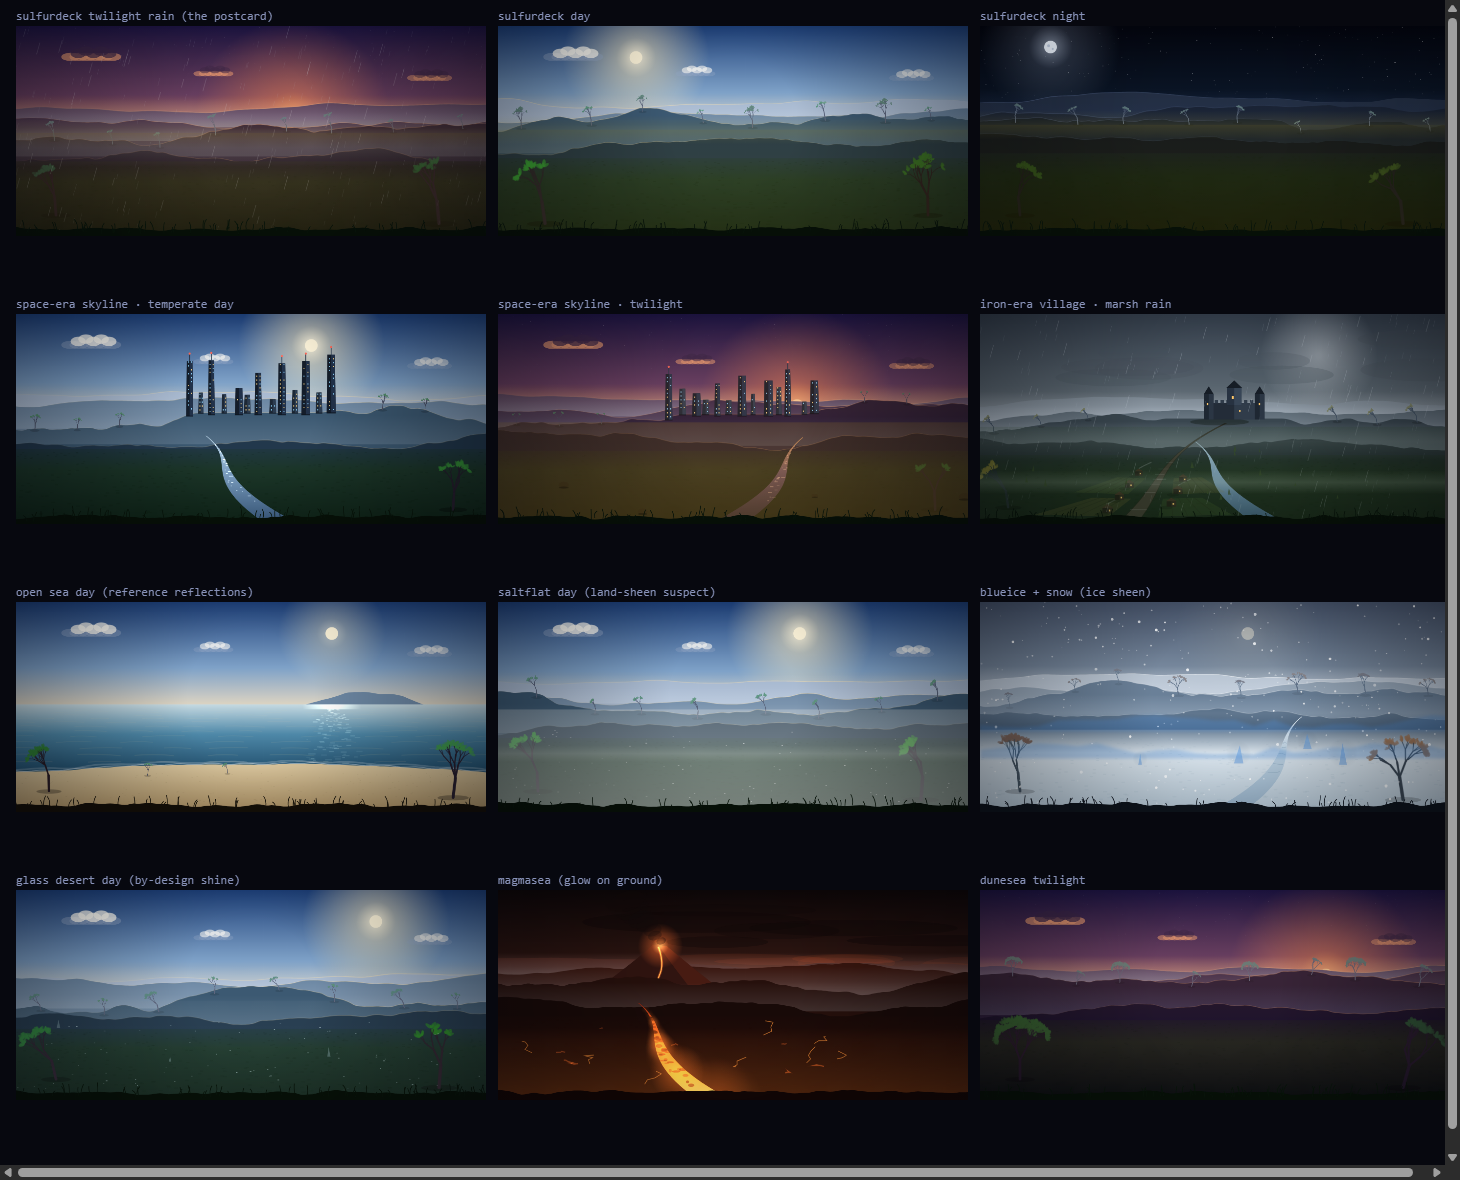
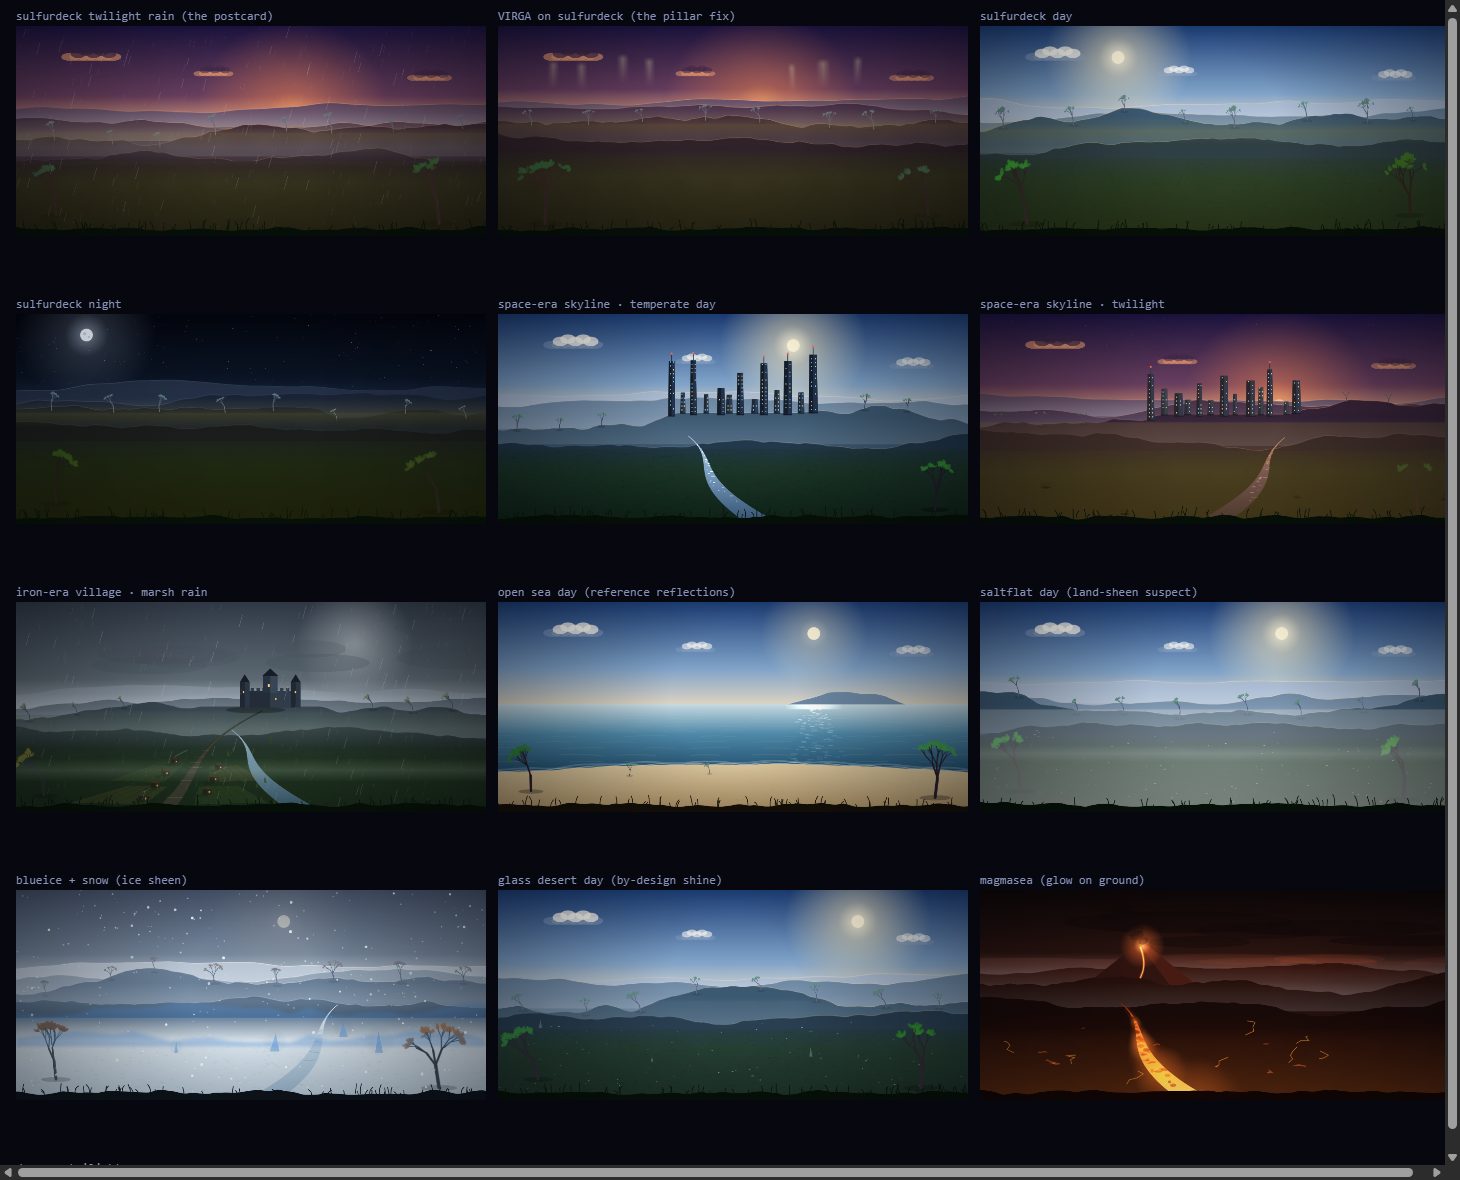
v1.5.2c: the emoji pass (Dakk's word) + the Venus pillar mystery solved - Safari-safe virga
- EMOJI FIXES: Forbidden Science wears the biohazard (a heraldic lily
  said nothing about breeding legends, and collided with Throne
  Breaker); Deep Find -> blue diamond (the 💠 stud belongs to Dakk's
  Earpiece socket alone); Survey Fleet -> satellite (an Earth
  helicopter had no place in deep space); Twin Suns -> two suns (a
  moon phase said the wrong thing about a binary).
- THE VENUS PILLARS (Dakk's postcard, repro'd by caption): 'acid rain
  dying in the air' = the VIRGA weather event. Its painter softened
  the rain shafts with ctx.filter='blur(3px)' - Safari/iOS does not
  support canvas filter, the try/catch hid it, and the shafts drew as
  hard flat-topped 12px slabs reading as a city skyline. Every proof
  sheet (Chrome/Edge) rendered the blur, which is why no sheet ever
  showed it. Fix: hand-feathered shafts (offscreen two-axis alpha
  gradient, slight lean) - identical soft veils on every browser; no
  filter dependency. Verified on the re-rendered art sheet.
- Battery: fingerprint 50/50, smoke 295 PASS / 0 FAIL.

Claude-Session: https://claude.ai/code/session_01D73Xb3esBQzqXfB3Pz9Shz

diff --git a/celestial-frontier.html b/celestial-frontier.html
@@ -6757,12 +6757,28 @@ function _hdWxEvent(g, evt, seed, hz, W, H, night){
     fog.addColorStop(0,'rgba(230,242,252,'+(0.4*A)+')'); fog.addColorStop(1,'rgba(230,242,252,0)');
     g.fillStyle=fog; g.beginPath(); g.arc(x,hz-h,80,0,TAU); g.fill();
   } else if(evt==='virga'){
-    try{ g.filter='blur(3px)'; }catch(_){ }
-    for(let i=0;i<7;i++){
-      const x=W*(0.08+r()*0.84), top=hz*0.28+r()*20, fall=hz*0.30;
-      const vg2=g.createLinearGradient(x,top,x,top+fall);
-      vg2.addColorStop(0,'rgba(210,200,160,'+(0.4*A)+')'); vg2.addColorStop(1,'rgba(210,200,160,0)');
-      g.fillStyle=vg2; g.fillRect(x-6,top,12,fall);
+    /* Safari/iOS has no ctx.filter — the old blur(3px) silently no-oped
+       there and the shafts rendered as hard flat-topped slabs that read
+       as a city skyline (Dakk's Venus postcard). Feather by hand: an
+       offscreen shaft faded on BOTH axes, stamped with a slight lean —
+       rain dying in the air on every browser. */
+    const vc=document.createElement('canvas'); vc.width=32; vc.height=96;
+    const vgc=vc.getContext('2d');
+    if(vgc){
+      const vv=vgc.createLinearGradient(0,0,0,96);
+      vv.addColorStop(0,'rgba(210,200,160,0)'); vv.addColorStop(0.18,'rgba(210,200,160,'+(0.38*A)+')');
+      vv.addColorStop(1,'rgba(210,200,160,0)');
+      vgc.fillStyle=vv; vgc.fillRect(0,0,32,96);
+      const vh=vgc.createLinearGradient(0,0,32,0);
+      vh.addColorStop(0,'rgba(0,0,0,0)'); vh.addColorStop(0.5,'rgba(0,0,0,1)'); vh.addColorStop(1,'rgba(0,0,0,0)');
+      vgc.globalCompositeOperation='destination-in';
+      vgc.fillStyle=vh; vgc.fillRect(0,0,32,96);
+      for(let i=0;i<7;i++){
+        const x=W*(0.08+r()*0.84), top=hz*0.28+r()*20, fall=hz*0.30, w=16+r()*14;
+        g.save(); g.translate(x,top); g.rotate((r()-0.5)*0.10);
+        g.drawImage(vc,-w/2,0,w,fall);
+        g.restore();
+      }
     }
   } else if(evt==='volclightning'){
     const x=W*(0.3+r()*0.4), top=hz*0.12;
@@ -10417,7 +10433,7 @@ const ACH=[
   {id:'gen5',    cat:'Breeding', ic:'🧫', name:'Dynasty',      d:'Reach a generation-5 hybrid line', t:()=>stats.maxGen>=5},
   {id:'gen10',   cat:'Breeding', ic:'👑', name:'Bloodline Eternal', d:'Reach a generation-10 hybrid line', t:()=>stats.maxGen>=10},
   /* — Rarity — */
-  {id:'rare',    cat:'Rarity', ic:'💠', name:'Deep Find',     d:'Discover something Rare or better', t:()=>stats.best>=3},
+  {id:'rare',    cat:'Rarity', ic:'🔷', name:'Deep Find',     d:'Discover something Rare or better', t:()=>stats.best>=3},   /* 💠 belongs to the Earpiece stud (Dakk's pick) — no double meaning */
   {id:'legend',  cat:'Rarity', ic:'🌟', name:'Gold Rush',     d:'Discover a Legendary', t:()=>stats.best>=5},
   {id:'unique',  cat:'Rarity', ic:'✦',  name:'One of One',    d:'Discover a one-of-one Unique', t:()=>stats.best>=7},
   {id:'mythic',  cat:'Rarity', ic:'🧿', name:'Beyond the Veil', d:'Discover a Mythic — rarer than one-of-one', t:()=>stats.best>=8},
@@ -10429,7 +10445,7 @@ const ACH=[
   {id:'survey5',  cat:'Worlds', ic:'🛰', name:'Eyes Down',       d:'Survey 5 living worlds', t:()=>stats.surveys>=5},
   {id:'survey25', cat:'Worlds', ic:'🌍', name:'World Walker',    d:'Survey 25 living worlds', t:()=>stats.surveys>=25},
   {id:'survey100',cat:'Worlds', ic:'🛸', name:'Centurion',       d:'Survey 100 living worlds', t:()=>stats.surveys>=100},
-  {id:'survey250',cat:'Worlds', ic:'🚁', name:'Survey Fleet',    d:'Survey 250 living worlds', t:()=>stats.surveys>=250},
+  {id:'survey250',cat:'Worlds', ic:'🛰', name:'Survey Fleet',    d:'Survey 250 living worlds', t:()=>stats.surveys>=250},   /* an Earth helicopter had no place in deep space */
   {id:'worldset', cat:'Worlds', ic:'🪐', name:'Planetary Census',d:'Survey all 8 world types', t:()=>ptypesSeen.size>=8},
   {id:'surface5', cat:'Worlds', ic:'👣', name:'Groundfall',      d:'Stand on the surface of 5 worlds', t:()=>surfSeen.size>=5},
   {id:'surface25',cat:'Worlds', ic:'🥾', name:'Trailblazer',     d:'Stand on the surface of 25 worlds', t:()=>surfSeen.size>=25},
@@ -10438,7 +10454,7 @@ const ACH=[
   {id:'spacefar', cat:'Worlds', ic:'🚀', name:'Peer Review',     d:'Scan a spacefaring civilization', t:null},
   /* — Stellar — */
   {id:'sol',     cat:'Stellar', ic:'☀', name:'Old Neighborhood', d:'Survey the Sun', t:null},
-  {id:'binary',  cat:'Stellar', ic:'🌗', name:'Twin Suns',        d:'Survey a binary star system', t:null},
+  {id:'binary',  cat:'Stellar', ic:'☀☀', name:'Twin Suns',        d:'Survey a binary star system', t:null},   /* two suns, not a moon phase */
   {id:'seebh',   cat:'Stellar', ic:'🕳', name:'Event Horizon',    d:'Survey a stellar black hole', t:null},
   {id:'seens',   cat:'Stellar', ic:'🗼', name:'Lighthouse',       d:'Survey a neutron star', t:null},
   {id:'seemag',  cat:'Stellar', ic:'🧲', name:'Starquake',        d:'Survey a magnetar', t:null},
@@ -10491,7 +10507,7 @@ const ACH=[
   {id:'bred1',  cat:'Husbandry', ic:'💞', name:'Matchmaker',       d:'Successfully breed a pair', t:()=>(stats.breedwins||0)>=1},
   {id:'bred10', cat:'Husbandry', ic:'🐣', name:'Brood Master',     d:'10 successful breedings', t:()=>(stats.breedwins||0)>=10},
   {id:'bredfail',cat:'Husbandry',ic:'🎲', name:'High Roller',      d:'Lose a pair to a failed breeding', t:()=>(stats.breeds||0)>(stats.breedwins||0)},
-  {id:'bredlegend',cat:'Husbandry',ic:'⚜', name:'Forbidden Science', d:'Breed two Legendary-or-better creatures', t:null},
+  {id:'bredlegend',cat:'Husbandry',ic:'☣', name:'Forbidden Science', d:'Breed two Legendary-or-better creatures', t:null},
   {id:'feed5',  cat:'Husbandry', ic:'🍽', name:'Zookeeper',        d:'Feed flora to fauna 5 times', t:()=>(stats.feeds||0)>=5},
   {id:'feedfail',cat:'Husbandry',ic:'☠', name:'Bitter Harvest',    d:'Lose a beast to a poisonous meal', t:()=>(stats.feedfails||0)>=1},
   /* — Duels — */

diff --git a/tools/sheets/artreview.js b/tools/sheets/artreview.js
@@ -16,6 +16,7 @@ module.exports = {
     g.font='12px monospace';
     const cases=[
       ['sulfurdeck twilight rain (the postcard)', {seed:9101, era:'none', pal:'twilight', wb:'sulfurdeck', wx:'rain', moons:0, water:'none'}],
+      ['VIRGA on sulfurdeck (the pillar fix)',       {seed:9113, era:'none', pal:'twilight', wb:'sulfurdeck', evt:'virga', moons:0, water:'none'}],
       ['sulfurdeck day',                          {seed:9102, era:'none', pal:'day', wb:'sulfurdeck', moons:1, water:'none'}],
       ['sulfurdeck night',                        {seed:9103, era:'none', pal:'night', wb:'sulfurdeck', moons:1, water:'none'}],
       ['space-era skyline · temperate day',       {seed:9104, era:'space', pal:'day', wb:'temperate', flora:true, moons:1}],
